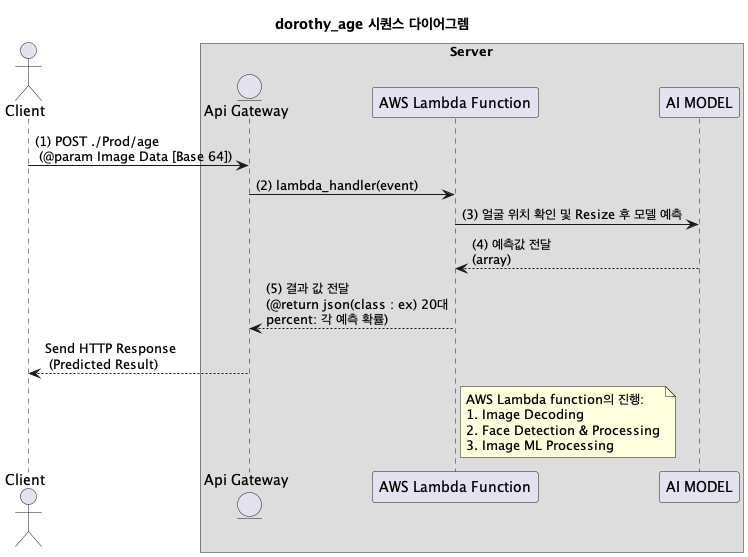
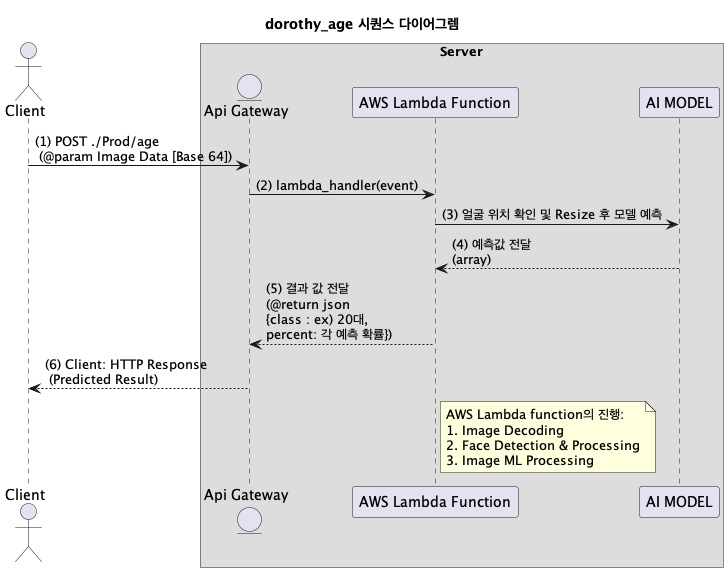
#009 fix sequence Diagram

diff --git a/README.md b/README.md
@@ -12,7 +12,7 @@
 ## 서버 구성도
 <img src = https://github.com/TheJoeunDorothy/Dorothy_server_lambda/blob/main/Readme/Dorothy_구성도.png>  
 
-## 클래스 다이어그램
+## 시퀀스 다이어그램
 ### 1.dorothy_age
 <img src = https://github.com/TheJoeunDorothy/Dorothy_server_lambda/blob/main/Readme/dorothy_age.png>  
 
